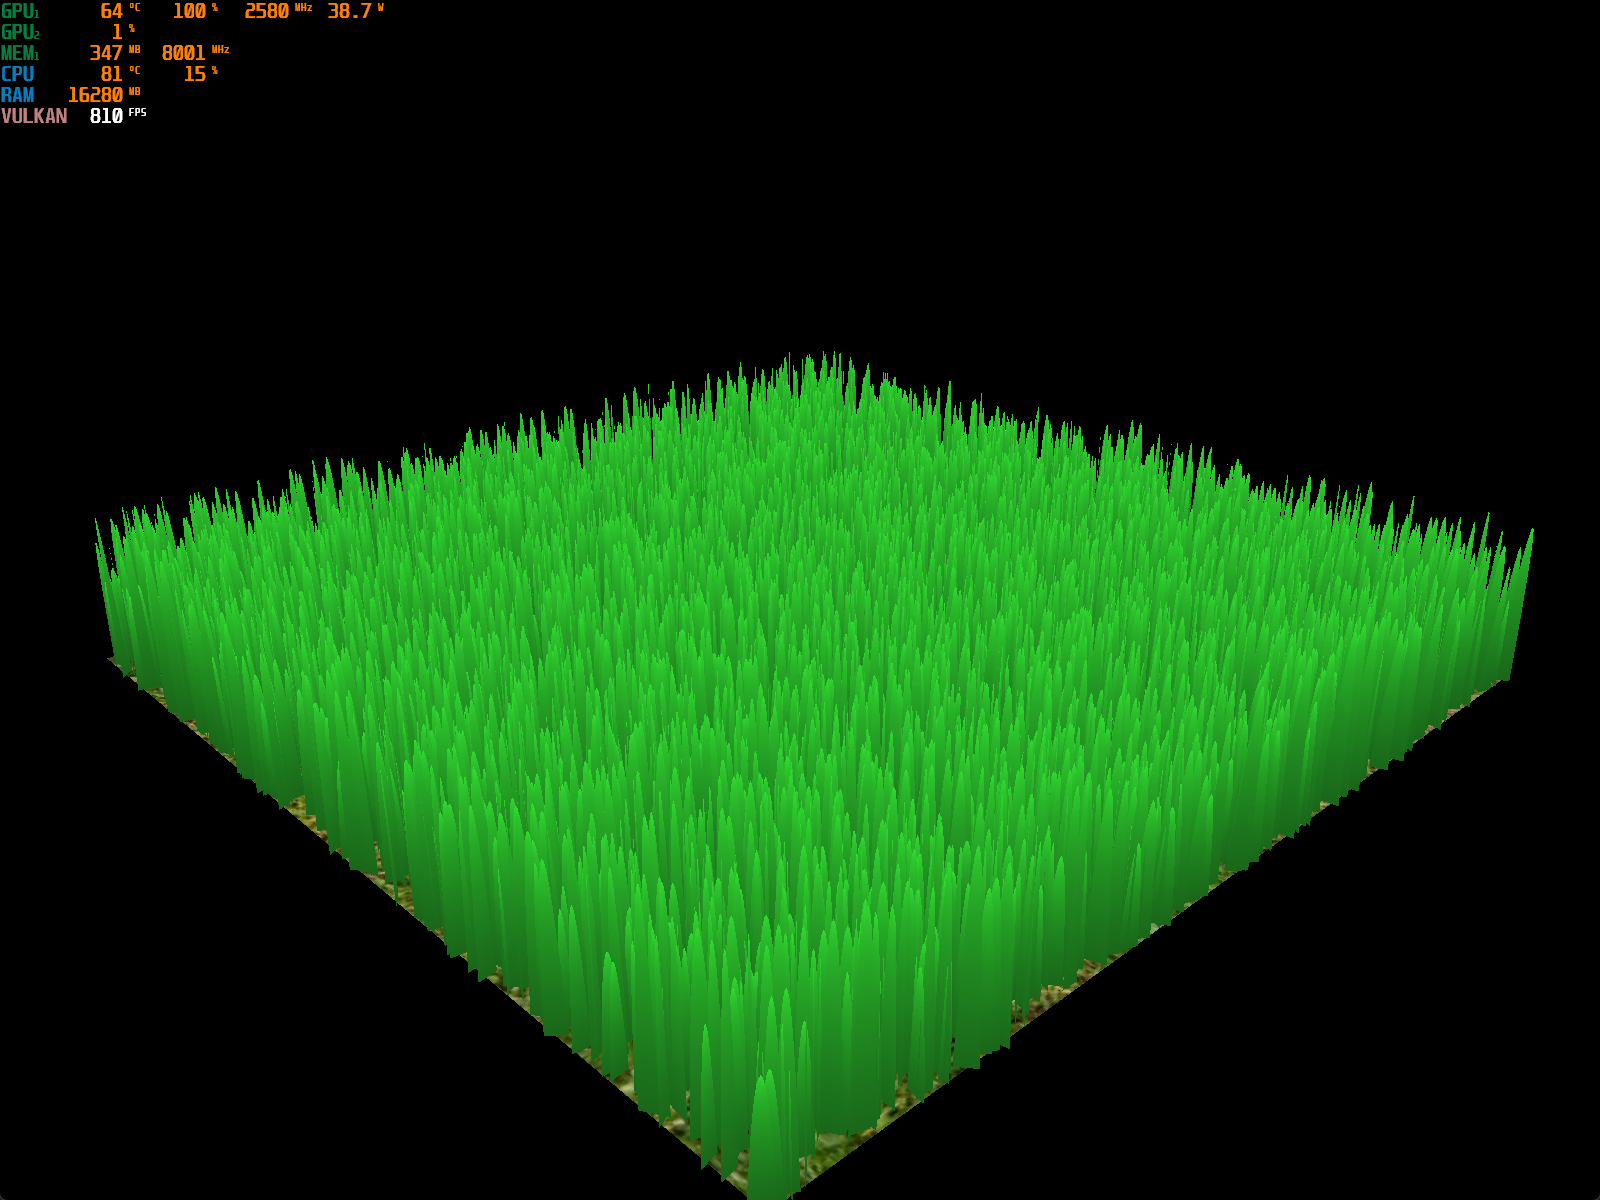
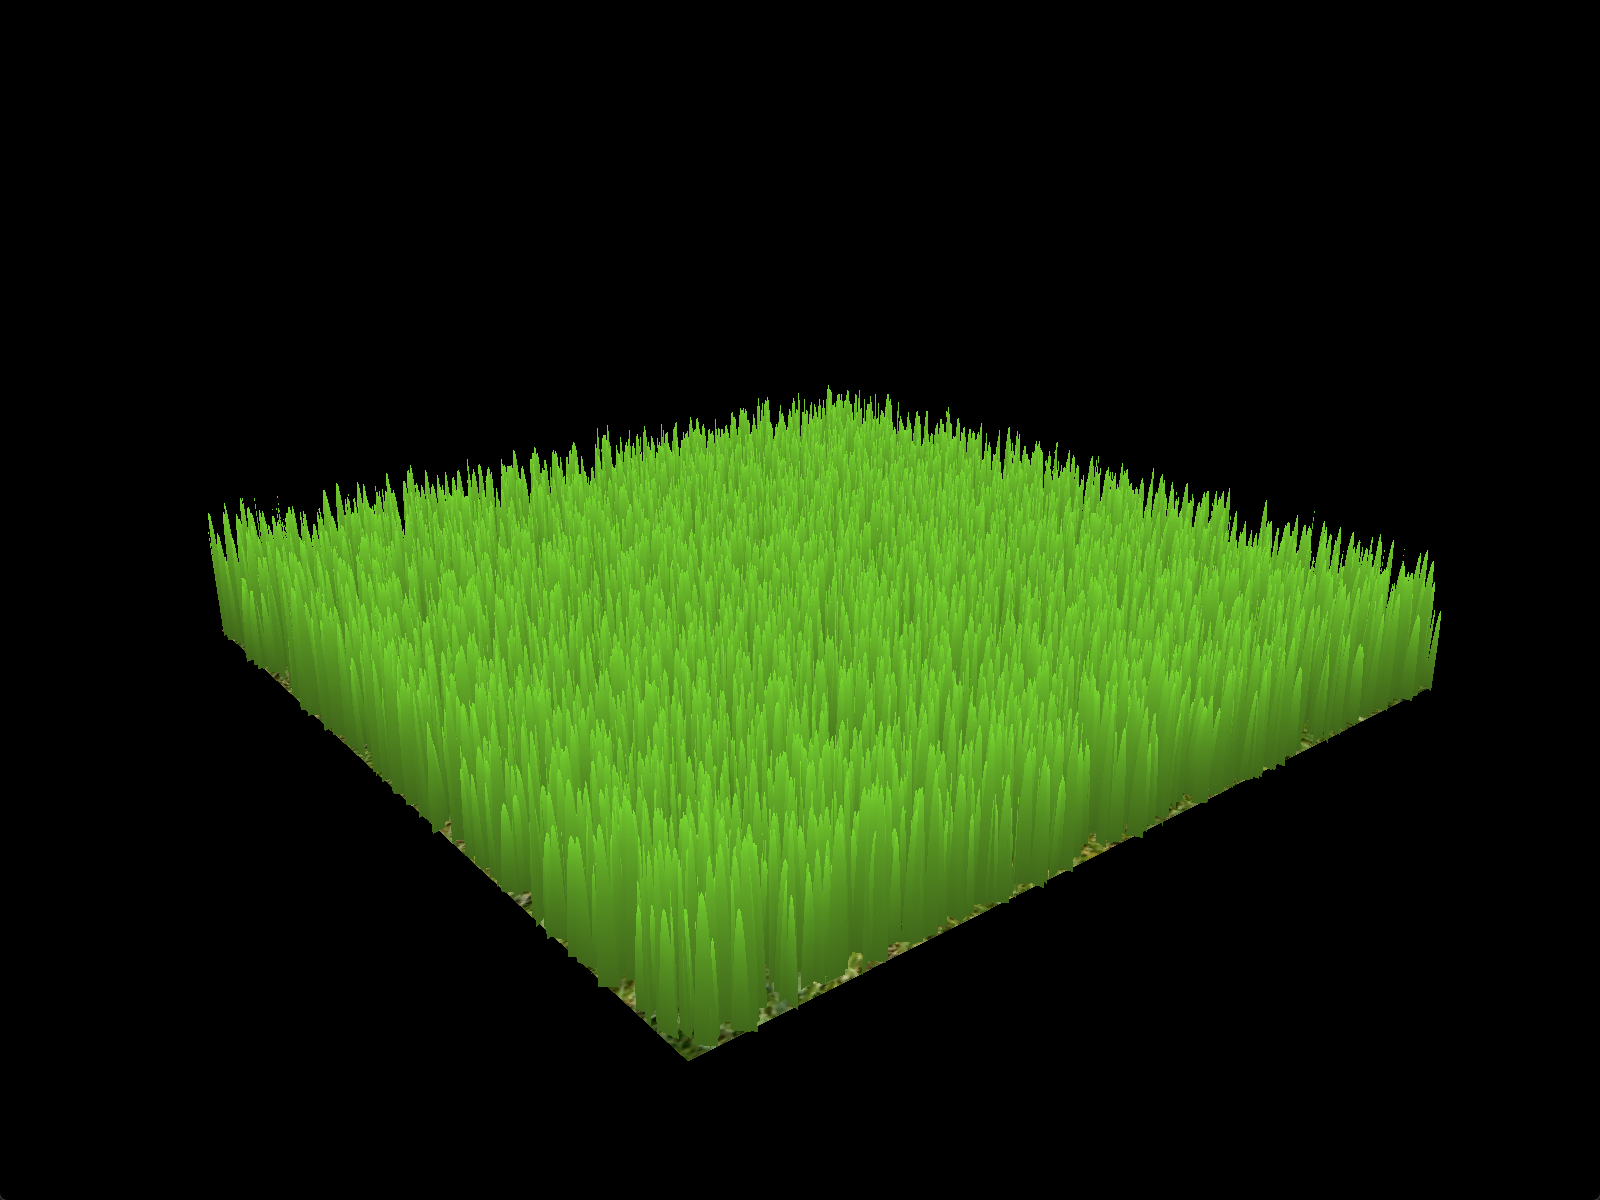
add gifs

diff --git a/src/Renderer.cpp b/src/Renderer.cpp
@@ -1081,7 +1081,7 @@ void Renderer::RecordCommandBuffers() {
         renderPassInfo.renderArea.extent = swapChain->GetVkExtent();
 
         std::array<VkClearValue, 2> clearValues = {};
-        clearValues[0].color = { 0.0f, 0.0f, 0.0f, 1.0f };
+        clearValues[0].color = { 0.5f, 0.635f, 0.743f, 1.0f };
         clearValues[1].depthStencil = { 1.0f, 0 };
         renderPassInfo.clearValueCount = static_cast<uint32_t>(clearValues.size());
         renderPassInfo.pClearValues = clearValues.data();

diff --git a/README.md b/README.md
@@ -1,12 +1,19 @@
-Vulkan Grass Rendering
-==================================
+# Vulkan Grass Rendering
 
 **University of Pennsylvania, CIS 565: GPU Programming and Architecture, Project 5**
 
-* (TODO) YOUR NAME HERE
-* Tested on: (TODO) Windows 22, i7-2222 @ 2.22GHz 22GB, GTX 222 222MB (Moore 2222 Lab)
+-   Yu Jiang
+-   Tested on: Windows 11, Ultra 7 155H @ 3.80 GHz, 32GB RAM, RTX 4060 8192MB (Personal Laptop)
 
-### (TODO: Your README)
+### Final Result
 
-*DO NOT* leave the README to the last minute! It is a crucial part of the
-project, and we will not be able to grade you without a good README.
+![](img/finalresult.gif)
+
+### Features
+
+This project is an implementation of [Responsive Real-Time Grass Rendering for General 3D Scenes](https://www.cg.tuwien.ac.at/research/publications/2017/JAHRMANN-2017-RRTG/JAHRMANN-2017-RRTG-draft.pdf) in Vulkan, including features of :
+
+-   Rendering grass realtimely in vulkan using Bezier curves.
+-   Simulating **Gravity, Recovery, and Wind** forces in Vulkan compute shaders.
+-   Dynamic culling blades by **Orientation, Distance and View Frustrum** in Vulkan compute shaders.
+-   Dynamic LOD by controlling tessellation levels in Vulkan tessellation shaders.
